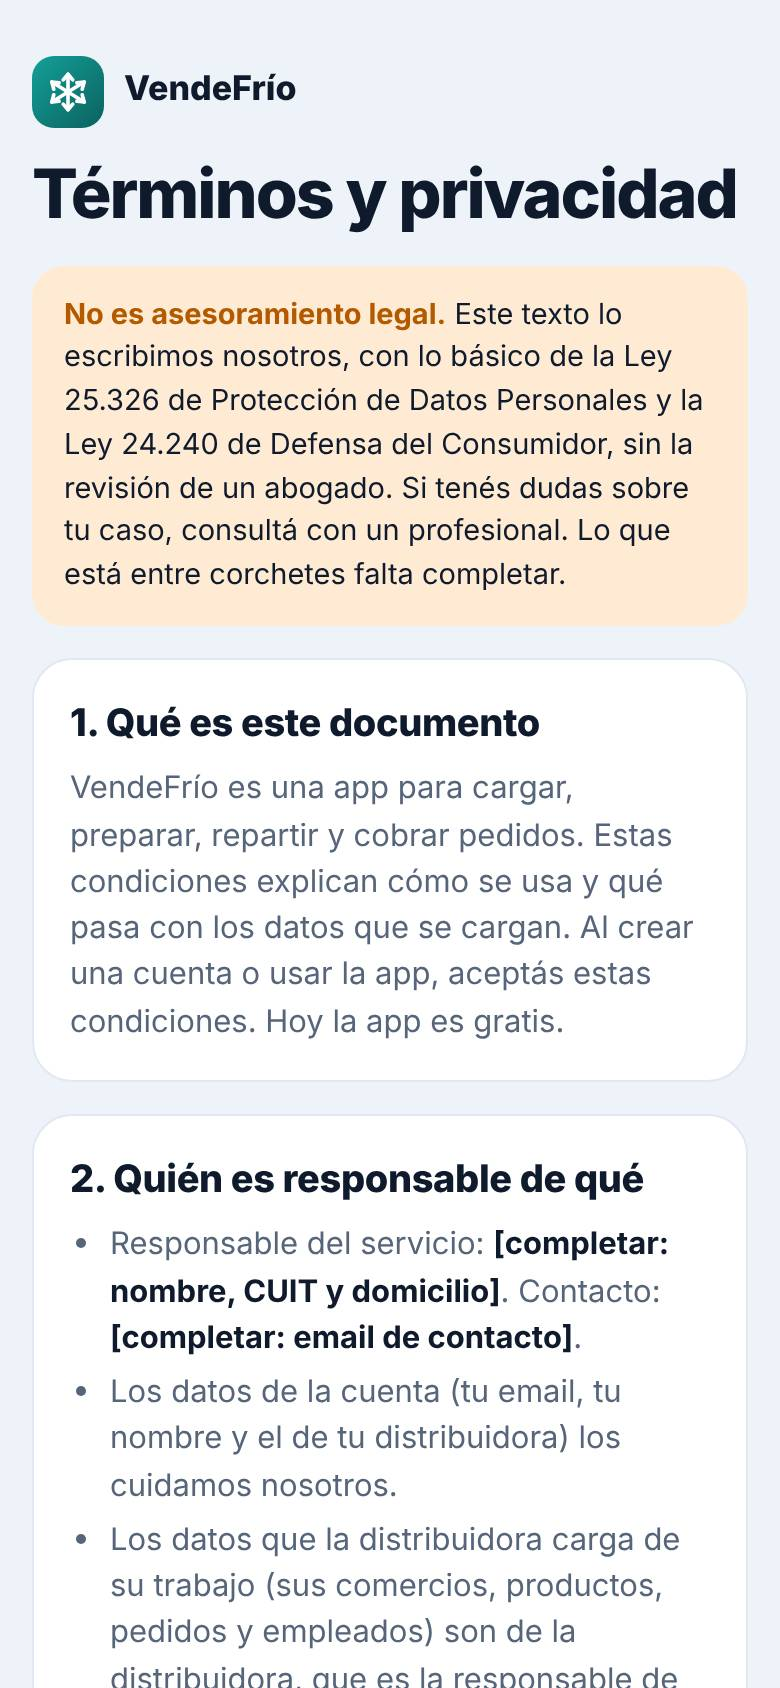
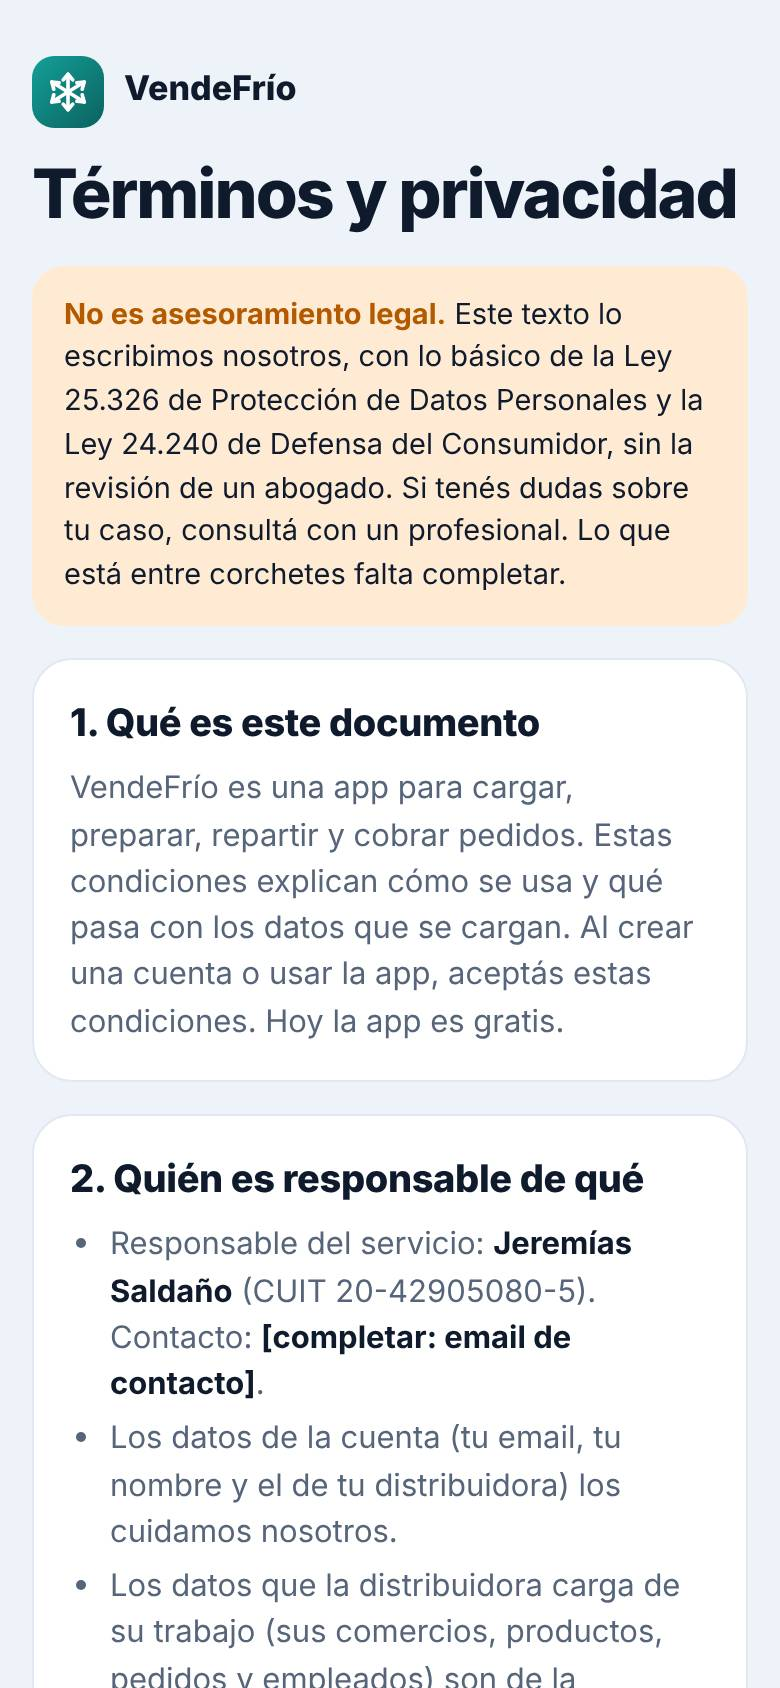
T159: responsable de los términos (Jeremías Saldaño)
Claude-Session: https://claude.ai/code/session_014MXfF8TC31rDLXevyJkTF8

Changed region(s): [[0.1231, 0.7085, 0.8615, 1.0]]

diff --git a/terminos.html b/terminos.html
@@ -14,7 +14,7 @@
 <h1>Términos y privacidad</h1>
 <p class="borrador"><strong>No es asesoramiento legal.</strong> Este texto lo escribimos nosotros, con lo básico de la Ley 25.326 de Protección de Datos Personales y la Ley 24.240 de Defensa del Consumidor, sin la revisión de un abogado. Si tenés dudas sobre tu caso, consultá con un profesional. Lo que está entre corchetes falta completar.</p>
 <section class="card"><h2>1. Qué es este documento</h2><p>VendeFrío es una app para cargar, preparar, repartir y cobrar pedidos. Estas condiciones explican cómo se usa y qué pasa con los datos que se cargan. Al crear una cuenta o usar la app, aceptás estas condiciones. Hoy la app es gratis.</p></section>
-<section class="card"><h2>2. Quién es responsable de qué</h2><ul class="lista"><li>Responsable del servicio: <strong>[completar: nombre, CUIT y domicilio]</strong>. Contacto: <strong>[completar: email de contacto]</strong>.</li><li>Los datos de la cuenta (tu email, tu nombre y el de tu distribuidora) los cuidamos nosotros.</li><li>Los datos que la distribuidora carga de su trabajo (sus comercios, productos, pedidos y empleados) son de la distribuidora, que es la responsable de tenerlos con permiso. Nosotros los guardamos y los mostramos solo para que la app le funcione, y no los usamos para nada más.</li></ul></section>
+<section class="card"><h2>2. Quién es responsable de qué</h2><ul class="lista"><li>Responsable del servicio: <strong>Jeremías Saldaño</strong> (CUIT 20-42905080-5). Contacto: <strong>[completar: email de contacto]</strong>.</li><li>Los datos de la cuenta (tu email, tu nombre y el de tu distribuidora) los cuidamos nosotros.</li><li>Los datos que la distribuidora carga de su trabajo (sus comercios, productos, pedidos y empleados) son de la distribuidora, que es la responsable de tenerlos con permiso. Nosotros los guardamos y los mostramos solo para que la app le funcione, y no los usamos para nada más.</li></ul></section>
 <section class="card"><h2>3. Qué datos guarda la app</h2><ul class="lista"><li>De la cuenta: email, nombre de la distribuidora y de cada persona del equipo, y sus roles. Son necesarios para tener cuenta; sin ellos solo se puede usar la app sin cuenta (modo personal).</li><li>Del trabajo: comercios (nombre, dirección, teléfono, ubicación), productos y precios, pedidos, entregas, cobros, saldos, gastos y visitas.</li><li>Lo que manda un comercio cuando pide por su link: su nombre y su pedido.</li><li>Fotos y firmas que se carguen como prueba de entrega, tickets de gastos o fotos de heladeras.</li><li>La ubicación del celular, solo cuando la persona la activa (por ejemplo, “compartir mi ubicación” mientras reparte o la navegación) y solo mientras está activa.</li><li>Si se conecta WhatsApp: los mensajes y audios que los comercios mandan a ese número, para armar el pedido.</li><li>Datos técnicos para resolver problemas: modelo de celular, versión de la app y errores, cuando alguien usa “Informar un problema”.</li></ul><p>Todo lo que no es de la cuenta es opcional: se carga solo si la distribuidora quiere.</p></section>
 <section class="card"><h2>4. Para qué se usan</h2><p>Solo para que la app funcione: mostrar los pedidos al equipo, armar rutas, calcular cobros y estadísticas, mandar avisos y resolver problemas. No se venden, no se alquilan y no se usan para publicidad.</p></section>
 <section class="card"><h2>5. Dónde se guardan y quién más los recibe</h2><p>Para funcionar, la app usa servicios de otras empresas. Algunos tienen sus servidores fuera de Argentina (por ejemplo, en Estados Unidos). Al aceptar estas condiciones, aceptás que los datos viajen a esos servicios, solo para lo que se explica acá:</p><ul class="lista"><li><strong>Google Firebase:</strong> guarda los datos en la nube, protegidos por reglas de acceso: cada distribuidora ve solo lo suyo. También manda las notificaciones.</li><li><strong>Vercel:</strong> es donde está publicada la app.</li><li><strong>Mapas y caminos:</strong> OpenStreetMap, los servidores de caminos de FOSSGIS y MapTiler reciben las ubicaciones y direcciones necesarias para dibujar el mapa y calcular la ruta.</li><li><strong>Anthropic (IA):</strong> solo si se prende la IA en la nube, recibe el texto que se dicta, se escribe o se pregunta, para entenderlo. Según sus condiciones, no lo usa para entrenar sus modelos.</li><li><strong>WhatsApp (Meta) y OpenAI:</strong> solo si se conecta WhatsApp. Meta pasa los mensajes y OpenAI pasa los audios a texto.</li><li><strong>El dictado por voz</strong> lo hace el navegador del celular (en Chrome, con servicios de Google).</li><li><strong>Mercado Pago:</strong> la app solo muestra tu alias o QR; el pago se hace en la app de Mercado Pago, con sus propias condiciones.</li><li>Sin cuenta (modo personal), los datos quedan solo en ese celular.</li></ul></section>

diff --git a/sw.js b/sw.js
@@ -1,7 +1,7 @@
 // =====================================================
 // VendeFrío - Service Worker (v164 - Estilo nuevo)
 // =====================================================
-const CACHE_NAME = "vendefrio-v211";
+const CACHE_NAME = "vendefrio-v212";
 const ARCHIVOS = [
   "./",
   "./index.html",

diff --git a/PROJECT_STATE.md b/PROJECT_STATE.md
@@ -1046,7 +1046,7 @@ El dueño revisó lo que Claude decidió solo en las Etapas 5 y 6 (M12). Le gust
 - [ ] **T156 — Elegir qué se ve en Inicio.** En Más > Apariencia, un grupo "Qué se ve en Inicio" con una llave por cada tarjeta (Próxima parada, Suelen pedir los…, avisos, resumen del día y las demás). "Suelen pedir los…" arranca apagada para todos. Se guarda en cada celular. Esfuerzo: Medio.
 - [ ] **T157 — Tutorial interactivo para quien recién entra.** En vez de solo la lista de "Primeros pasos", un recorrido que señala cada botón en la pantalla real y explica qué hace: cargar un producto, un comercio y el primer pedido, Rutas y Más. Se puede saltear y volver a ver desde Más > Seguridad y ayuda. Corto y liviano para celulares baratos. Esfuerzo: Alto.
 - [ ] **T158 — Mucha más personalización en Apariencia.** Al dueño le gustan los ajustes de hoy y quiere muchos más: más colores principales (y uno a elección), más temas, forma de los botones, tamaño de los íconos, fondo de Inicio y estilo de las tarjetas, con vista previa. Que todos funcionen de verdad y no traben la app. Esfuerzo: Alto.
-- [x] **T159 — Repaso casero de los términos (en lugar de M19).** Claude revisa los términos y la privacidad de T87 con lo básico de la ley argentina (Ley 25.326 de datos personales y Ley 24.240 de defensa del consumidor). Los escribe claros y les agrega que no son un asesoramiento de un abogado. Esfuerzo: Medio. **Hecha (2026-10-22):** `terminos.html` reescrito en 13 puntos: aviso de que no es asesoramiento legal, quién responde por qué datos, todos los servicios que reciben datos (Firebase, Vercel, mapas, Anthropic, Meta y OpenAI con WhatsApp, dictado del navegador, Mercado Pago) y su envío fuera del país, baja gratis por email con borrado en 30 días, plazos de la Ley 25.326 (ver gratis en 10 días, corregir o borrar en 5 hábiles) con la leyenda obligatoria de la Agencia, responsabilidad sin quitar derechos de la Ley 24.240, precio (hoy gratis), cambios avisados 15 días antes y reclamos. Faltan los datos entre corchetes (nombre, CUIT, domicilio y email del responsable).
+- [x] **T159 — Repaso casero de los términos (en lugar de M19).** Claude revisa los términos y la privacidad de T87 con lo básico de la ley argentina (Ley 25.326 de datos personales y Ley 24.240 de defensa del consumidor). Los escribe claros y les agrega que no son un asesoramiento de un abogado. Esfuerzo: Medio. **Hecha (2026-10-22):** `terminos.html` reescrito en 13 puntos: aviso de que no es asesoramiento legal, quién responde por qué datos, todos los servicios que reciben datos (Firebase, Vercel, mapas, Anthropic, Meta y OpenAI con WhatsApp, dictado del navegador, Mercado Pago) y su envío fuera del país, baja gratis por email con borrado en 30 días, plazos de la Ley 25.326 (ver gratis en 10 días, corregir o borrar en 5 hábiles) con la leyenda obligatoria de la Agencia, responsabilidad sin quitar derechos de la Ley 24.240, precio (hoy gratis), cambios avisados 15 días antes y reclamos. Responsable: Jeremías Saldaño (CUIT 20-42905080-5), sin domicilio por pedido del dueño. Falta el email de contacto (el dueño piensa crear uno de la app).
 - [ ] **T161 — "Listas de precios" en Más.** Las listas ya existen (T78): se arman desde el catálogo (⋯ > "Precios por lista") y cada comercio tiene la suya en su ficha. Sumar en Más una opción "Listas de precios" para crear, renombrar y borrar listas (por ejemplo Supermercados, Almacenes y Kioscos) y cargar el precio de cada producto (con "subir todo un %" y redondeo, como ya hay). Al armar el pedido, se elige cualquier lista (arranca con la del comercio) y el pedido guarda los precios de esa lista. Esfuerzo: Alto (revisar si toca `firestore.rules`).
 - [ ] **T162 — Exportar una lista de precios a planilla y como folleto.** Desde la lista: "Exportar a planilla" (CSV para Excel o Google Sheets, como T47) y "Folleto para imprimir", una hoja prolija con el nombre y los datos de la distribuidora, los productos por marca y sus precios, para imprimir o mandar en PDF y dejarle a los comercios. Esfuerzo: Medio.
 - [ ] **T163 — Probar otro servidor de caminos gratis (Valhalla de FOSSGIS).** Alternativa gratis a M13: el mismo grupo que da el OSRM de hoy tiene un servidor Valhalla, sin clave, con perfil de moto de verdad y las indicaciones en español. Sumarlo detrás de un ajuste ("Servidor de caminos: OSRM o Valhalla") en `navegacion.js`, con OSRM como respaldo si falla. Compararlos en M22. Esfuerzo: Medio.
